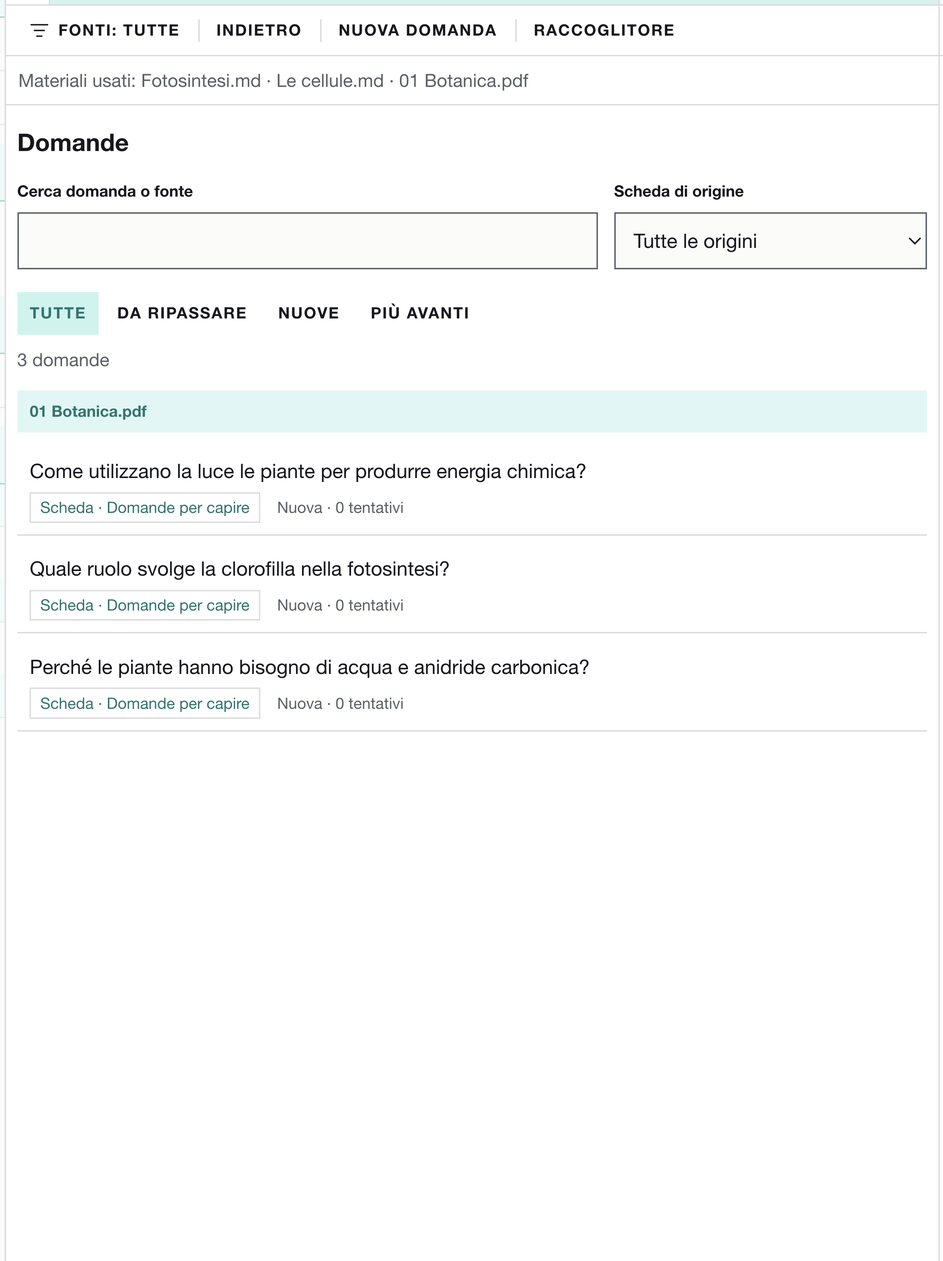
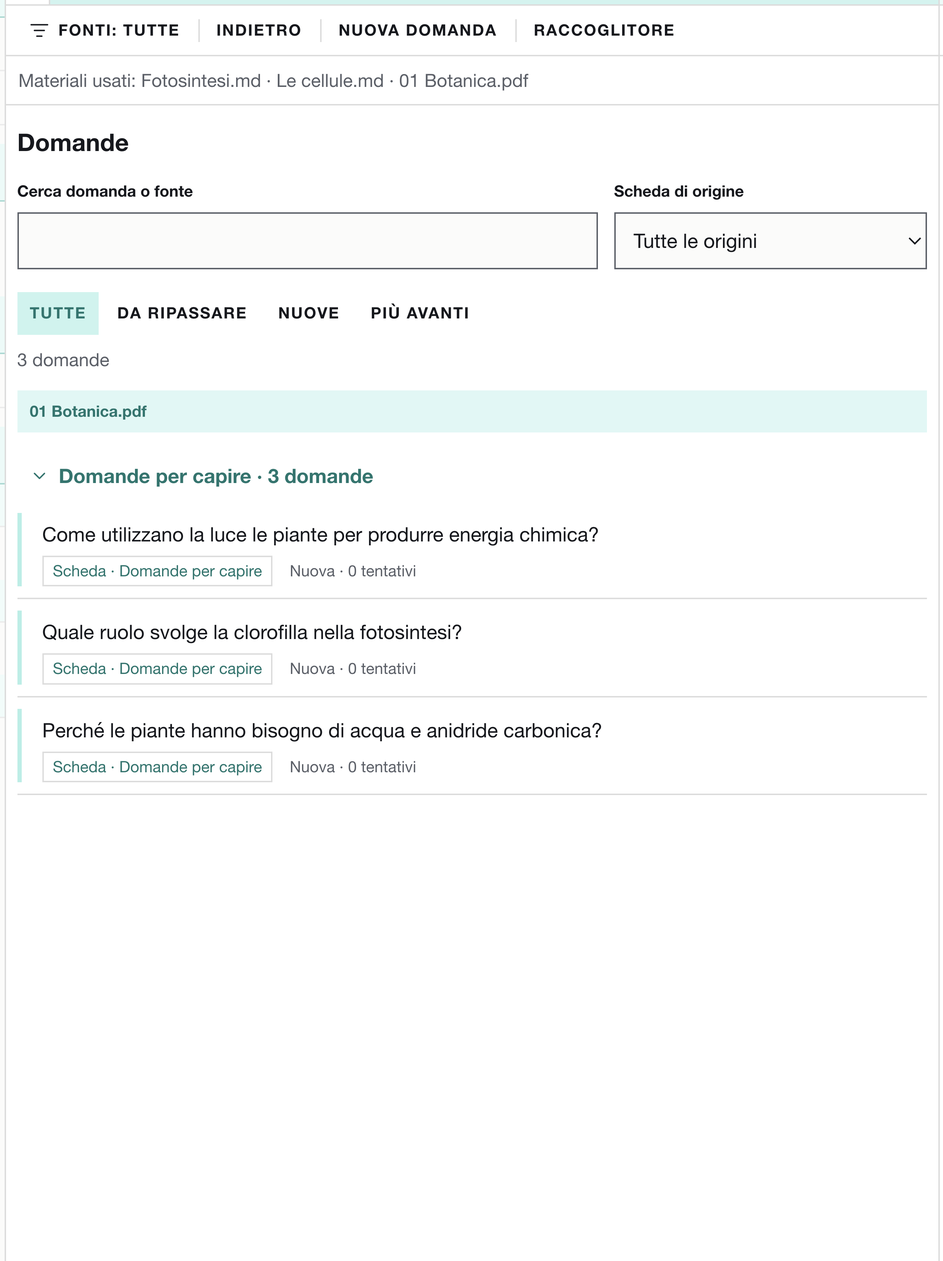
Comprimi le domande delle schede e riconosci quella aperta nel Ripasso

Changed region(s): [[0.0, 0.3729, 0.6503, 0.6215]]

diff --git a/App/assets/chat/schede-ripasso.js b/App/assets/chat/schede-ripasso.js
@@ -46,6 +46,7 @@
   const picker=window.ZainoSceltaFonti.crea({prefix:'zstudyScope',bar:$('zstudyToolbar'),host:$('zstudyScopeHost'),state:reviewState,onChange(){visitati.clear();drawQuestion(null);refresh().catch(e=>status(e.message,true));}});
 
   let estimate=null,question=null,attemptId=null,review=false,selection='',cards=[],savedQuestions=[],queueState={questions:[],due:[]},collectionWarnings=[],collectionTimer,collectionRun=0;const drafts=new Map(),visitati=new Set();let paused=false,pausedId=null,schedeView='library',ripassoView='home',queueFilter='all';
+  const schedeChiuse=new Set();
   const call=async(n,...args)=>{const r=await api[n](...args);if(!r?.ok)throw Error(r?.error || 'Operazione non riuscita.');return r;};
   const button=(text,fn,principale=false)=>{const b=el('button',text,principale?'tbtn acc':'tbtn');b.type='button';b.onclick=fn;return b;};
   // Una sola attività per superficie; il DOM nascosto conserva filtri e risposte in corso.
@@ -167,21 +168,33 @@
    // Un filtro su una scheda rimossa resta esplicito, senza passare in silenzio a tutte.
    if(selected && ![...origin.options].some(o=>o.value===selected))origin.append(new Option('Scheda non disponibile nelle fonti scelte',selected));
    origin.value=selected||'all';
-   const rows=domandeFiltrate(),target=$('zstudyQueue'),focused=target.contains(document.activeElement)?document.activeElement.dataset.questionId:null;
+   const rows=domandeFiltrate(),target=$('zstudyQueue'),focused=target.contains(document.activeElement)?{...document.activeElement.dataset}:null;
+   for(const d of target.querySelectorAll('details[data-scheda-id]')){if(d.open)schedeChiuse.delete(d.dataset.schedaId);else schedeChiuse.add(d.dataset.schedaId);}
    target.replaceChildren();
-   for(const group of P.gruppiDomande(rows)){
-    const section=el('section',undefined,'zstudy-source-group'),heading=el('h3',group.files.map(f=>f.split('/').pop()).join(' · '));heading.title=group.files.join(' · ');section.append(heading);
-    const list=el('ul');section.append(list);
-    for(const q of group.questions){
+   function listaDomande(questions){
+    const list=el('ul');
+    for(const q of questions){
      const row=el('li'),open=button(q.question,()=>openQuestion(q.id));open.classList.add('zstudy-question-open');open.dataset.questionId=q.id;
-     if(q.id===question?.id)open.setAttribute('aria-current','true');row.append(open);
+     const current=q.id===question?.id;if(current)open.setAttribute('aria-current','true');row.append(open);
      const meta=el('div',undefined,'zstudy-question-meta');
+     if(current)meta.append(el('span','Aperta','zstudy-current'));
      if(q.scheda){const chip=el('span','Scheda · '+q.scheda.title,'zstudy-origin-chip');chip.title=q.scheda.title+' — '+q.scheda.file;meta.append(chip);}
      const due=queueState.due.includes(q.id),label=!q.esito?'Nuova':due?'Da ripassare':'Più avanti';
      meta.append(el('span',label+' · '+q.attempts.length+(q.attempts.length===1?' tentativo':' tentativi')+(q.prossimo&&!due?' · '+new Date(q.prossimo).toLocaleDateString('it-IT'):'')));
      if(q.sourcesCurrent===false)meta.append(el('span','Fonti modificate o non disponibili'));
      row.append(meta);list.append(row);
+    }return list;
+   }
+   for(const group of P.gruppiDomande(rows)){
+    const section=el('section',undefined,'zstudy-source-group'),heading=el('h3',group.files.map(f=>f.split('/').pop()).join(' · '));heading.title=group.files.join(' · ');section.append(heading);
+    for(const card of group.schede){
+     const details=el('details',undefined,'zstudy-card-group'),summary=el('summary',card.title+' · '+card.questions.length+(card.questions.length===1?' domanda':' domande'));
+     details.dataset.schedaId=summary.dataset.schedaId=card.sourceId;details.open=!schedeChiuse.has(card.sourceId);
+     const tooltip=()=>{summary.title=(details.open?'Comprimi':'Espandi')+' le domande della scheda';};tooltip();
+     details.ontoggle=()=>{if(!details.isConnected)return;if(details.open)schedeChiuse.delete(card.sourceId);else schedeChiuse.add(card.sourceId);tooltip();};
+     details.append(summary,listaDomande(card.questions));section.append(details);
     }
+    if(group.questions.length)section.append(listaDomande(group.questions));
     target.append(section);
    }
    for(const b of $('zstudyQueueFilter').querySelectorAll('button'))b.setAttribute('aria-pressed',String(b.dataset.filter===queueFilter));
@@ -191,7 +204,7 @@
    $('zstudyProgress').textContent=question?(rows.some(q=>q.id===question.id)?'Domanda '+(rows.findIndex(q=>q.id===question.id)+1)+' di '+rows.length:'Domanda di ripasso'):'';
    const remaining=rows.filter(q=>q.id!==question?.id&&!visitati.has(q.id));$('zstudyNext').disabled=!remaining.length;$('zstudyNext').classList.toggle('acc',!!question?.attempts.at(-1)?.corrections?.length);$('zstudyPause').disabled=!question;
    $('zstudySession').textContent=rows.length&&!remaining.length&&question?'Hai aperto tutte le domande. Scegline un’altra da «Domande».':'';
-   if(focused)[...target.querySelectorAll('button')].find(b=>b.dataset.questionId===focused)?.focus({preventScroll:true});
+   if(focused)[...target.querySelectorAll('button,summary')].find(b=>focused.questionId?b.dataset.questionId===focused.questionId:b.dataset.schedaId===focused.schedaId)?.focus({preventScroll:true});
   }
   async function loadQuestion(id,current){const preview=queueState.cardQuestions?.find(q=>q.id===id),saved=queueState.questions.some(q=>q.id===id);const r=preview&&!saved?await call('fromCard',state.zaino,preview.scheda.sourceId,preview.scheda.index,preview.scheda.revision,preview.id):await call('resume',state.zaino,id);if(current()){paused=false;pausedId=null;pulisciAvvisoRipasso();const scope=P.ambitoDomanda(reviewState.scope,r.question);if(JSON.stringify(scope)!==JSON.stringify(reviewState.scope)){picker.set(scope);status('Aggiunte alle fonti del ripasso quelle della domanda aperta.');}if(question)visitati.add(question.id);review=true;drawQuestion(r.question);window.bancoMostra('flashcard');await refresh();await collection();$('zstudyQuestion h3')?.focus();}}
   function openQuestion(id){return action(current=>loadQuestion(id,current));}
@@ -219,6 +232,6 @@
    }catch(e){status(e.message,true);}
   };
   vistaSchede('library');vistaRipasso('home');
-  return {openReview,settled(){drawQueue();$('zschedeEstimate').disabled=!$('zschedeSource').options.length;},async sync(){reviewState.zaino=state.zaino;await picker.sync();if(state.zaino){await Promise.all([refresh(),sources(),collection()]);if(!$('zschedePreset').options.length){const r=await call('presets');for(const [id,label] of Object.entries(r.presets))$('zschedePreset').append(new Option(label,id));}}},scopeChanged(){invalidateEstimate();sources().catch(e=>status(e.message,true));},reset(){api.cancel();clearTimeout(collectionTimer);collectionRun++;cards=[];savedQuestions=[];queueState={questions:[],due:[]};collectionWarnings=[];$('zschedeKind').value='all';queueFilter='all';$('zstudySearch').value='';$('zstudyOrigin').replaceChildren(new Option('Tutte le origini','all'));$('zstudyQueueCount').textContent='';$('zstudyNew').open=false;$('zstudySession').textContent='';$('zstudyQueueEmpty').textContent='';document.querySelectorAll('.zstudio-config').forEach(e=>{e.hidden=true;});$('zschedeStatus').textContent='';$('zstudyStatus').textContent='';$('zschedeTokens').textContent='';$('zschedeCollection').replaceChildren();$('zschedeCollectionStatus').textContent='';$('zschedeFilter').value='';$('zschedeNew').open=false;estimate=null;question=null;drafts.clear();visitati.clear();paused=false;pausedId=null;review=false;selection='';vistaSchede('library');vistaRipasso('home');$('zschedeResult').replaceChildren();$('zschedeSource').replaceChildren();$('zschedeSourceStatus').textContent='';$('zschedeGenerate').hidden=true;$('zschedeEstimateText').textContent='';$('zstudyQuestion').replaceChildren();$('zstudyQueue').replaceChildren();$('zstudyQueue').hidden=true;$('zstudyTopic').value='';$('zstudyCount').textContent='';window.RIPCONTO={mai:0,oggi:0,attesa:0,totale:0,corso:state.zaino};window.ripassoContoDisegna?.();},refresh};
+  return {openReview,settled(){drawQueue();$('zschedeEstimate').disabled=!$('zschedeSource').options.length;},async sync(){reviewState.zaino=state.zaino;await picker.sync();if(state.zaino){await Promise.all([refresh(),sources(),collection()]);if(!$('zschedePreset').options.length){const r=await call('presets');for(const [id,label] of Object.entries(r.presets))$('zschedePreset').append(new Option(label,id));}}},scopeChanged(){invalidateEstimate();sources().catch(e=>status(e.message,true));},reset(){api.cancel();clearTimeout(collectionTimer);collectionRun++;cards=[];savedQuestions=[];queueState={questions:[],due:[]};collectionWarnings=[];$('zschedeKind').value='all';queueFilter='all';$('zstudySearch').value='';$('zstudyOrigin').replaceChildren(new Option('Tutte le origini','all'));$('zstudyQueueCount').textContent='';$('zstudyNew').open=false;$('zstudySession').textContent='';$('zstudyQueueEmpty').textContent='';document.querySelectorAll('.zstudio-config').forEach(e=>{e.hidden=true;});$('zschedeStatus').textContent='';$('zstudyStatus').textContent='';$('zschedeTokens').textContent='';$('zschedeCollection').replaceChildren();$('zschedeCollectionStatus').textContent='';$('zschedeFilter').value='';$('zschedeNew').open=false;estimate=null;question=null;drafts.clear();visitati.clear();schedeChiuse.clear();paused=false;pausedId=null;review=false;selection='';vistaSchede('library');vistaRipasso('home');$('zschedeResult').replaceChildren();$('zschedeSource').replaceChildren();$('zschedeSourceStatus').textContent='';$('zschedeGenerate').hidden=true;$('zschedeEstimateText').textContent='';$('zstudyQuestion').replaceChildren();$('zstudyQueue').replaceChildren();$('zstudyQueue').hidden=true;$('zstudyTopic').value='';$('zstudyCount').textContent='';window.RIPCONTO={mai:0,oggi:0,attesa:0,totale:0,corso:state.zaino};window.ripassoContoDisegna?.();},refresh};
  }};
 }(typeof self!=='undefined'?self:this));

diff --git a/test/cdp/prova-ripasso-elenco.js b/test/cdp/prova-ripasso-elenco.js
@@ -13,6 +13,7 @@ const set=(id,value)=>c.val(`(()=>{const e=document.getElementById(${JSON.string
  const cards=sources.slice(0,2).map((s,i)=>({version:1,preset:'domande',sourceId:s.id,revision:s.revision,file:s.file,createdAt:new Date().toISOString(),provider:'prova',model:'sintetico',sources:[{sourceId:s.id,revision:s.revision,file:s.file,kind:'pdf',page:1,chunkId:'prova-elenco-'+i,quote:'Prova sintetica.'}],items:(i?['Quali organelli contengono le cellule?']:['Come utilizzano la luce le piante per produrre energia chimica e quale ruolo svolge la clorofilla in questo processo?','Perché le piante hanno bisogno di acqua?']).map(title=>({title,text:'Risposta sintetica da non anticipare.',refs:['prova-elenco-'+i]}))}));
  backup(path.join(base,'RIPASSO/active.json'));
  for(const card of cards){const file=path.join(base,'_lavorazione/rag/schede',card.sourceId+'-domande.json');backup(file);fs.mkdirSync(path.dirname(file),{recursive:true});fs.writeFileSync(file,JSON.stringify(card));for(const item of card.items)backup(path.join(base,'RIPASSO/domande',S.idDomanda(card,item)+'.json'));}
+ const single=path.join(base,'RIPASSO/domande/prova-domanda-singola.json');backup(single);fs.mkdirSync(path.dirname(single),{recursive:true});fs.writeFileSync(single,JSON.stringify({id:'prova-domanda-singola',question:'Quali materiali servono a una pianta?',createdAt:new Date().toISOString(),saved:true,attempts:[],sources:cards[0].sources,scope:{mode:'all',sourceIds:[],wikipedia:false}}));
  const id=S.idDomanda(cards[0],cards[0].items[0]),record=path.join(base,'RIPASSO/domande',id+'.json'),before=sent();assert(!fs.existsSync(record));
  try{
   await c.val(`bancoForma('uno');bancoAssegna('A','flashcard')`);await click('#zstudyBrowse');
@@ -20,7 +21,15 @@ const set=(id,value)=>c.val(`(()=>{const e=document.getElementById(${JSON.string
   await click('#zstudyScopeButton');await wait(`document.querySelector('#zstudyScope input')`);
   if(!await c.val(`document.querySelector('#zstudyScope input').checked`))await click('#zstudyScope input');
   await click('#zstudyScopeButton');await set('zstudySearch','');await click('#zstudyQueueFilter [data-filter="all"]');
-  await wait(`document.querySelector('#zstudyOrigin option[value="${cards[0].sourceId}"]')`);await set('zstudyOrigin',cards[0].sourceId);
+  await wait(`document.querySelector('#zstudyOrigin option[value="${cards[0].sourceId}"]')`);await set('zstudyOrigin','all');
+  const fold='#zstudyQueue details[data-scheda-id="'+cards[0].sourceId+'"]';
+  assert(await c.val(`document.querySelector(${JSON.stringify(fold)}).open`));await click(fold+' > summary');
+  await wait(`!document.querySelector(${JSON.stringify(fold)}).open`);
+  assert(await c.val(`document.querySelector('#zstudyQueue [data-question-id="prova-domanda-singola"]').checkVisibility()`),'Le domande singole non si chiudono insieme alla scheda');
+  assert.equal(await c.val(`document.querySelector(${JSON.stringify(fold+' button')}).checkVisibility()`),false);
+  await set('zstudyOrigin',cards[0].sourceId);assert.equal(await c.val(`document.querySelector(${JSON.stringify(fold)}).open`),false,'Il filtro conserva il gruppo chiuso');
+  await click('#zstudyNewButton');await click('#zstudyBrowse');await wait(`document.querySelector(${JSON.stringify(fold+' > summary')})`);assert.equal(await c.val(`document.querySelector(${JSON.stringify(fold)}).open`),false);
+  await c.val(`document.querySelector(${JSON.stringify(fold+' > summary')}).focus()`);await c.invia('Input.dispatchKeyEvent',{type:'keyDown',key:'Enter',code:'Enter',windowsVirtualKeyCode:13,text:'\r',unmodifiedText:'\r'});await c.invia('Input.dispatchKeyEvent',{type:'keyUp',key:'Enter',code:'Enter',windowsVirtualKeyCode:13});await wait(`document.querySelector(${JSON.stringify(fold)}).open`);
   assert.equal(await c.val(`document.querySelectorAll('#zstudyQueue .zstudy-question-open').length`),2);assert(!fs.existsSync(record));
   assert.equal(await c.val(`document.querySelectorAll('#zstudyQueue .zstudy-origin-chip').length`),2);
   await set('zstudySearch','LUCE');assert.equal(await c.val(`document.querySelectorAll('#zstudyQueue .zstudy-question-open').length`),1);
@@ -34,14 +43,18 @@ const set=(id,value)=>c.val(`(()=>{const e=document.getElementById(${JSON.string
   await click('#zstudyQueueFilter [data-filter="new"]');assert.equal(await c.val(`document.querySelectorAll('#zstudyQueue .zstudy-question-open').length`),2);
   await set('zstudyOrigin',cards[1].sourceId);assert.equal(await c.val(`document.querySelectorAll('#zstudyQueue .zstudy-question-open').length`),1);
   await set('zstudyOrigin','all');await click('#zstudyQueueFilter [data-filter="all"]');
+  assert.equal(await c.val(`document.querySelectorAll('#zstudyQueue [aria-current="true"]').length`),1);
+  assert.equal(await c.val(`document.querySelector('#zstudyQueue .zstudy-current').textContent`),'Aperta');
   assert.equal(await c.val('RIPCONTO.totale'),await c.val(`document.querySelectorAll('#zstudyQueue .zstudy-question-open').length`));
   await c.invia('Emulation.setDeviceMetricsOverride',{width:900,height:900,deviceScaleFactor:1,mobile:false});
-  for(const theme of ['chiaro','scuro']){await c.val(`document.documentElement.dataset.theme=${JSON.stringify(theme)}`);await c.pausa(250);assert(await c.val(`document.getElementById('zstudyBody').scrollWidth<=document.getElementById('zstudyBody').clientWidth+1`));const shot=await c.invia('Page.captureScreenshot',{format:'png'});fs.writeFileSync('/tmp/zaino-ripasso-elenco-'+theme+'.png',Buffer.from(shot.result.data,'base64'));}
+  for(const theme of ['chiaro','scuro']){await c.val(`document.documentElement.dataset.theme=${JSON.stringify(theme)}`);await c.pausa(250);assert(await c.val(`document.getElementById('zstudyBody').scrollWidth<=document.getElementById('zstudyBody').clientWidth+1`));
+   const lines=await c.val(`(()=>{const current=document.querySelector('#zstudyQueue [aria-current="true"]').closest('li'),other=document.querySelector('#zstudyQueue [data-question-id="prova-domanda-singola"]').closest('li');return [current,other].map(e=>{const s=getComputedStyle(e,'::before');return {color:s.backgroundColor,width:s.width,height:s.height};});})()`);assert.notEqual(lines[0].color,lines[1].color);assert(lines.every(s=>s.width==='3px'&&parseFloat(s.height)>0));
+   const shot=await c.invia('Page.captureScreenshot',{format:'png'});fs.writeFileSync('/tmp/zaino-ripasso-elenco-'+theme+'.png',Buffer.from(shot.result.data,'base64'));}
   assert.equal(sent(),before);
  }finally{
   for(const [file,old] of backups){if(old)fs.writeFileSync(file,old);else fs.rmSync(file,{force:true});}
   await c.val(`document.documentElement.dataset.theme=${JSON.stringify(initial.theme)};localStorage.clear();Object.entries(${JSON.stringify(initial.storage)}).forEach(([k,v])=>localStorage.setItem(k,v));BANCO.stato=${JSON.stringify(initial.banco)};bancoSalva();bancoDisegna();`);await c.invia('Emulation.clearDeviceMetricsOverride');
   await c.val(`location.reload()`);await c.pausa(800);await c.collega();await wait(`document.getElementById('zschedePreset')?.options.length===5`);
  }
- console.log('ripasso elenco: schede mai aperte, filtri, ricerca, tastiera, identità, bozza, nessuna AI e due temi OK');process.exit(0);
+ console.log('ripasso elenco: schede collassabili, domande singole, linee di stato, filtri, tastiera, identità, bozza, nessuna AI e due temi OK');process.exit(0);
 })().catch(e=>{console.error(e);process.exit(1);});

diff --git a/App/guida-zaino/index.html b/App/guida-zaino/index.html
@@ -418,7 +418,8 @@
 
         <p>Apri <strong>«Domande»</strong>: trovi l’elenco raggruppato per fonte, con il testo completo di ogni domanda. Sono comprese anche le domande delle schede <strong>«Domande per capire»</strong> che non hai ancora aperto. L’etichetta «Scheda · Domande per capire» ne indica l’origine.</p>
         <p>Cerca una parola o una fonte, scegli una <strong>«Scheda di origine»</strong> oppure filtra per <strong>«Tutte»</strong>, <strong>«Da ripassare»</strong>, <strong>«Nuove»</strong> o <strong>«Più avanti»</strong>. Premi il testo di una domanda per aprirla; con la tastiera, raggiungila con Tab e premi Invio. Sfogliare e aprire non usano l’AI. La prima apertura conserva la domanda della scheda nel Ripasso; le successive ritrovano gli stessi tentativi e le stesse date.</p>
-        <figure class="fig-blocco"><img src="img/208-ripasso-domande.png" alt="Elenco delle domande raggruppate per fonte, ricerca, filtro della scheda di origine e filtri di ripasso" loading="lazy"><figcaption><b>Scegli direttamente una domanda.</b> Esempio con contenuti dimostrativi: l’etichetta collega le domande alla scheda da cui provengono.</figcaption></figure>
+        <p>Premi il titolo della scheda con il chevron per comprimere o espandere le sue domande. Il numero resta visibile; le domande create singolarmente restano fuori dal gruppo. La scelta aperto/chiuso si conserva usando i filtri o tornando all’elenco nello stesso zaino. La linea verde chiara affianca ogni domanda; una linea più marcata e <strong>«Aperta»</strong> indicano quella su cui stai lavorando.</p>
+        <figure class="fig-blocco"><img src="img/208-ripasso-domande.png" alt="Domande della scheda in un gruppo collassabile, con linee verdi a lato, ricerca e filtri di ripasso" loading="lazy"><figcaption><b>Scegli direttamente una domanda.</b> Il titolo «Domande per capire» comprime o espande il gruppo. Esempio con contenuti dimostrativi.</figcaption></figure>
         <p>«Torna alla domanda» riporta al tentativo senza perdere la bozza. «Prossima domanda» segue gli stessi filtri dell’elenco; «Pausa» conserva anche una domanda appena creata e mantiene la bozza durante questa sessione dell’app. «Riprendi» riapre la domanda in pausa. Domande conservate e tentativi inviati restano sul disco. «Raccoglitore» torna a Cerca e studia.</p>
         <h3 id="rg-tentativo">Dalla domanda al tuo tentativo</h3>
         <ol class="passi">

diff --git a/App/assets/chat/ui.css b/App/assets/chat/ui.css
@@ -210,11 +210,19 @@
 .zstudy-filters { display:flex; flex-wrap:wrap; gap:.25rem; margin-block:.5rem; }
 .zstudy-source-group h3 { padding:.4rem var(--tb-pad-x); margin:.75rem 0 .25rem; background:var(--comando-hover); color:var(--teal-strong); font-size:var(--tb-fs); overflow-wrap:anywhere; }
 .zstudy-source-group ul { margin:0; padding:0; list-style:none; }
-.zstudy-source-group li { padding:.5rem 0; border-bottom:1px solid var(--line); }
+.zstudy-source-group li { position:relative; padding:.5rem 0 .5rem var(--tb-pad-x); border-bottom:1px solid var(--line); }
+.zstudy-source-group li::before { content:""; position:absolute; inset-block:.5rem; inset-inline-start:0; width:3px; background:color-mix(in srgb,var(--teal) 38%,var(--panel)); }
+.zstudy-source-group li:has([aria-current="true"])::before { background:var(--teal-strong); }
+.zstudy-card-group>summary { display:flex; align-items:center; gap:.4rem; min-height:var(--tb-h); padding:.4rem var(--tb-pad-x); color:var(--teal-strong); font-weight:600; cursor:pointer; list-style:none; }
+.zstudy-card-group>summary::-webkit-details-marker { display:none; }
+.zstudy-card-group>summary::before { content:""; flex:none; width:1em; height:1em; background:currentColor; mask:var(--icon-chevron-right) center/contain no-repeat; }
+.zstudy-card-group[open]>summary::before { transform:rotate(90deg); }
+.zstudy-card-group>summary:hover,.zstudy-card-group>summary:active { background:var(--comando-hover); }
+.zstudy-card-group>summary:focus-visible { outline:2px solid var(--teal-strong); outline-offset:-2px; }
 .zstudy-queue .zstudy-question-open { display:block; width:100%; height:auto; min-height:var(--tb-h); text-transform:none; letter-spacing:normal; font-size:inherit; font-weight:400; line-height:1.5; white-space:normal; overflow-wrap:anywhere; text-align:left; }
 .zstudy-question-meta { display:flex; align-items:baseline; flex-wrap:wrap; gap:.4rem .75rem; padding-inline:var(--tb-pad-x); color:var(--muted); font-size:var(--tb-fs); line-height:1.5; }
 .zstudy-origin-chip { display:inline-block; padding:.1rem .4rem; border:1px solid var(--line); color:var(--teal-strong); }
-.zstudy-question-open[aria-current="true"] { box-shadow:inset 3px 0 var(--teal-strong); }
+.zstudy-current { color:var(--teal-strong); font-weight:600; }
 #zstudyQuestion form { margin-block:1rem; }
 #zstudyStatus:empty,#zragStatus:empty { display:none; }
 

diff --git a/App/assets/chat/percorso-studio.js b/App/assets/chat/percorso-studio.js
@@ -12,7 +12,15 @@
    &&(scheda==='all'||scheda==='none'&&!q.scheda||q.scheda?.sourceId===scheda)
    &&(!text||[q.question,q.scheda?.title,q.scheda?.file,...(q.sources||[]).map(s=>s.file)].join(' ').toLocaleLowerCase('it').includes(text)));
  }
- function gruppiDomande(rows){const groups=new Map();for(const q of rows){const files=[...new Set((q.sources||[]).map(s=>s.file))].sort(),id=JSON.stringify(files);if(!groups.has(id))groups.set(id,{id,files,questions:[]});groups.get(id).questions.push(q);}return [...groups.values()].sort((a,b)=>a.id.localeCompare(b.id,'it'));}
+ function gruppiDomande(rows){
+  const groups=new Map();for(const q of rows){
+   const files=[...new Set((q.sources||[]).map(s=>s.file))].sort(),id=JSON.stringify(files);
+   if(!groups.has(id))groups.set(id,{id,files,questions:[],schede:[]});const group=groups.get(id);
+   if(!q.scheda){group.questions.push(q);continue;}
+   let card=group.schede.find(s=>s.sourceId===q.scheda.sourceId);
+   if(!card){card={...q.scheda,questions:[]};group.schede.push(card);}card.questions.push(q);
+  }return [...groups.values()].sort((a,b)=>a.id.localeCompare(b.id,'it'));
+ }
  function ambitoDomanda(scope,q){if(scope.mode==='all')return scope;return {...scope,sourceIds:[...new Set([...scope.sourceIds,...q.sources.map(s=>s.sourceId)])]};}
  function configurato(config,keys){return !!(config?.provider&&config.model&&(keys?.[config.provider]===true||keys?.[config.provider]?.set));}
  function riprendi(questions,due,pausedId){return questions.find(q=>q.saved&&q.id===pausedId)||coda(questions,due)[0]||null;}

diff --git a/App/guida-zaino/_lab/ripasso-elenco.js b/App/guida-zaino/_lab/ripasso-elenco.js
@@ -18,6 +18,8 @@ async function wait(expr){assert(await L.finoA(expr,18000),expr);}
   await L.clicca('#zstudyScopeButton');await wait(`document.querySelectorAll('#zstudyQueue .zstudy-question-open').length>=3`);
   await L.val(`document.getElementById('zstudySearch').value='';document.getElementById('zstudySearch').dispatchEvent(new Event('input'));document.getElementById('zstudyOrigin').value='all';document.getElementById('zstudyOrigin').dispatchEvent(new Event('change'));document.querySelector('#zstudyQueueFilter [data-filter="all"]').click()`);
   await L.muovi(10,940);await L.pausa(3800);await L.scatta('208-ripasso-domande',{sel:'#zinterroga',scala:2,margine:4});
+  await L.clicca('#zstudyQueue .zstudy-card-group > summary');await wait(`!document.querySelector('#zstudyQueue .zstudy-card-group').open`);await L.muovi(10,940);await L.pausa(200);
+  const chiusa=await L.invia('Page.captureScreenshot',{format:'png'});fs.writeFileSync('/tmp/zaino-ripasso-scheda-chiusa.png',Buffer.from(chiusa.result.data,'base64'));
  }finally{if(old)fs.writeFileSync(file,old);else fs.rmSync(file,{force:true});}
  console.log('Elenco Ripasso: ricerca, etichette e filtri acquisiti.');process.exit(0);
 })().catch(e=>{console.error(e);process.exit(1);});

diff --git a/test/percorso-studio.js b/test/percorso-studio.js
@@ -35,4 +35,9 @@ assert.deepEqual(P.coda(disponibili,[],'later','','a').map(q=>q.id),['scheda-a']
 assert.deepEqual(P.coda(disponibili,[],'all','','none').map(q=>q.id),['q']);
 assert.equal(P.riprendi([daScheda],[],null).id,'scheda-a');
 assert.equal(P.gruppiDomande(disponibili).length,1);
+const gruppo=P.gruppiDomande(disponibili)[0];
+assert.deepEqual(gruppo.questions.map(q=>q.id),['q'],'Le domande singole restano fuori dalle schede collassabili');
+assert.equal(gruppo.schede.length,1);
+assert.equal(gruppo.schede[0].sourceId,'a');
+assert.deepEqual(gruppo.schede[0].questions.map(q=>q.id),['scheda-a','scheda-b']);
 console.log('percorso-studio: raccolta comune, filtri combinati, origine, deduplica, fonti e coda OK');

diff --git a/README.md b/README.md
@@ -47,6 +47,8 @@ Il riepilogo **Materiali usati** compare nella ricerca e nella scelta o creazion
 
 **Nuova domanda** apre la generazione. **Torna alla domanda** conserva la bozza. Dopo l’invio compare il riscontro: **Riprova** riapre il campo di risposta. **Prossima domanda** segue gli stessi filtri dell’elenco; **Pausa** e **Riprendi** conservano la domanda e il testo non inviato durante la sessione dell’app. Domande conservate, tentativi inviati e date restano sul disco. Nelle schede, **Rispondi** riusa quella stessa domanda e il suo storico.
 
+Le domande di ciascuna scheda si possono comprimere dal titolo con il chevron e il conteggio. Le domande create singolarmente restano visibili; apertura e chiusura dei gruppi si conservano mentre usi i filtri o torni all’elenco nello stesso zaino. Ogni domanda ha una linea verde chiara; quella attualmente aperta usa una linea più marcata e l’etichetta **Aperta**, per ritrovare il punto del ripasso.
+
 ## Materiali in parallelo
 
 I pulsanti delle azioni hanno sfondo trasparente e hover verde, anche nelle toolbar e sulle superfici colorate. Spazi e linee verticali separano i gruppi di comandi. Il verde persistente indica una selezione o un comando acceso, come la raccolta di Album; Album e Impostazioni non aggiungono una barra sotto il tab selezionato. Nella sidebar, ordinamento e matita compaiono solo nelle sezioni aperte, con testo verde scuro; nelle sezioni chiuse restano nome e chevron.
